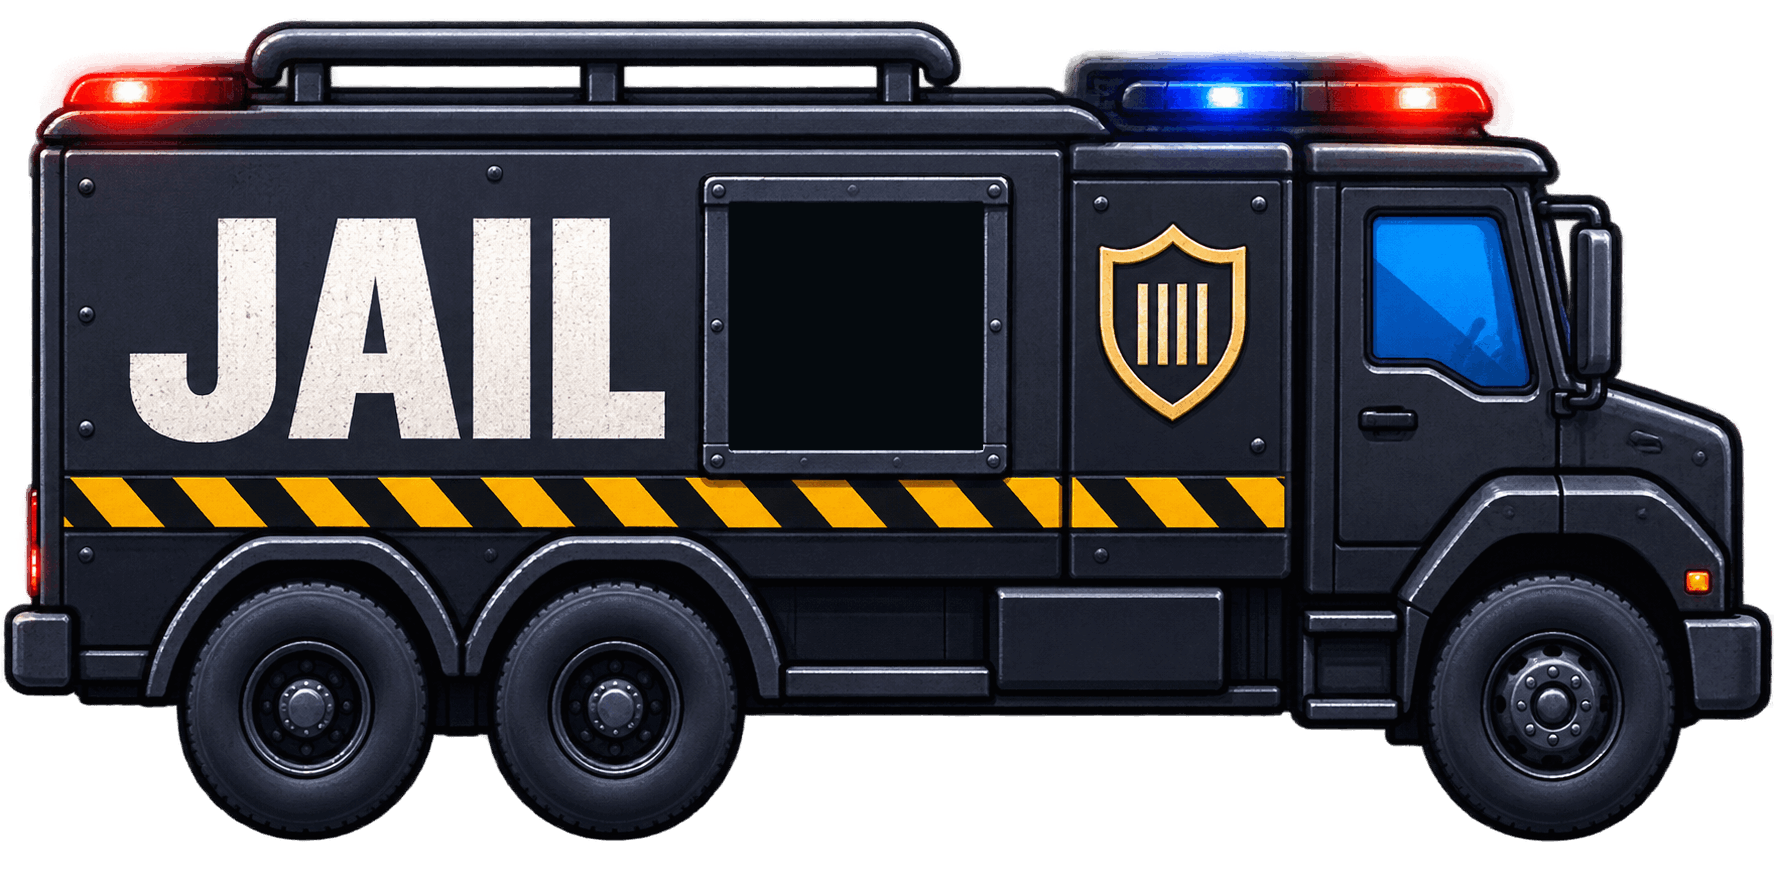
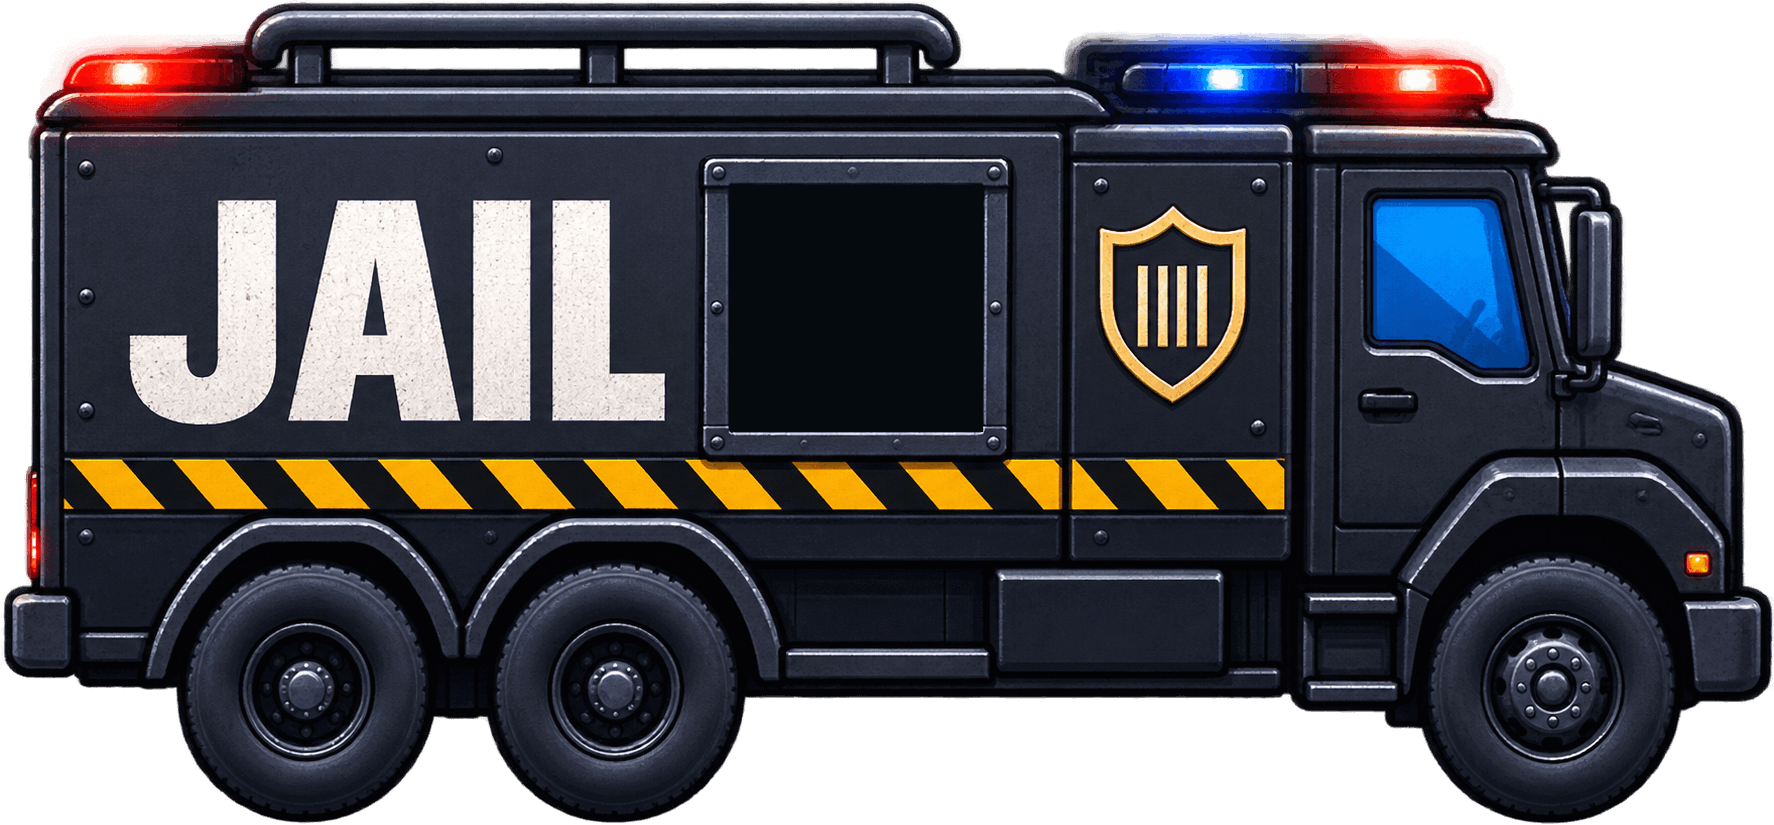
Add ban message positioning modes
Add Below Van, Above Van, and Manual ban message positioning modes.

- Default to Below Van
- Keep Manual slider positioning
- Pass positioning mode through Streamer.bot
- Align automatic positioning with van and skid-mark geometry
- Remove obsolete truck backup image

diff --git a/assets/ban-van-size.js b/assets/ban-van-size.js
@@ -1,9 +1,15 @@
 (() => {
   const root = document.documentElement;
+  const banStage = document.getElementById("ban-stage");
   const originalApplySettings = window.applyOverlaySettings;
   const DESIGN_HEIGHT = 1080;
+  const DESIGN_VAN_HEIGHT = 320;
+  const TRAIL_HEIGHT = 92;
+  const SKID_BOTTOM_OFFSET = 44;
+  const MESSAGE_GAP = 0;
   const vanScales = { "Large": 1, "Medium": 0.85, "Small": 0.70, "Extra Small": 0.60 };
   const messageScales = { "Large": 1, "Medium": 0.85, "Small": 0.70, "Extra Small": 0.60 };
+  const messagePositionModes = new Set(["Below Van", "Above Van", "Manual"]);
 
   function applyVanSize(value) {
     const size = Object.prototype.hasOwnProperty.call(vanScales, value) ? value : "Large";
@@ -19,32 +25,80 @@
     updateVerticalPositions();
   }
 
+  function applyMessagePositionMode(value) {
+    const mode = messagePositionModes.has(value) ? value : "Below Van";
+    root.dataset.banMessagePositionMode = mode;
+    updateVerticalPositions();
+  }
+
   function clampPercent(value) {
     return Number.isFinite(value) ? Math.max(0, Math.min(100, value)) : 50;
   }
 
-  function updateVerticalPositions() {
-    const vanPosition = clampPercent(Number(root.dataset.banVanPosition ?? 50));
-    const messagePosition = clampPercent(Number(root.dataset.banMessagePosition ?? 50));
-    const vanScale = Number(root.style.getPropertyValue("--ban-van-scale")) || 1;
-    const messageScale = Number(root.style.getPropertyValue("--ban-message-scale")) || 1;
+  function getMessageScale() {
+    return Number(root.style.getPropertyValue("--ban-message-scale")) || 1;
+  }
 
-    // The ban animation lives in a fixed 1920x1080 design stage. The
-    // responsive stage scales that complete canvas to the browser viewport.
-    const vanHeight = 320 * vanScale;
+  function positionMessageLayer(scene) {
+    if (!scene?.isConnected) return;
+    const layer = scene.querySelector(".ban-message-layer");
+    if (!layer) return;
+
+    const mode = root.dataset.banMessagePositionMode || "Below Van";
+    const vanPosition = clampPercent(Number(root.dataset.banVanPosition ?? 50));
+    const vanScale = Number(root.style.getPropertyValue("--ban-van-scale")) || 1;
+    const messageScale = getMessageScale();
+    const messageHeight = 32 * messageScale;
+    const vanHeight = DESIGN_VAN_HEIGHT * vanScale;
     const vanTop = (DESIGN_HEIGHT - vanHeight) * (vanPosition / 100);
     const trailTop = vanTop + 279;
-    const messageHeight = 32 * messageScale;
-    const messageTop = (DESIGN_HEIGHT - messageHeight) * (messagePosition / 100);
+
+    let messageTop;
+
+    if (mode === "Above Van") {
+      // The truck is scaled around its bottom edge. With the transparent
+      // padding trimmed from the truck artwork, the scaled image bounds now
+      // represent the visible truck bounds directly.
+      const visualTruckTop = vanTop + DESIGN_VAN_HEIGHT - vanHeight;
+      messageTop = visualTruckTop - messageHeight - MESSAGE_GAP;
+    } else if (mode === "Manual") {
+      messageTop = (DESIGN_HEIGHT - messageHeight) * (clampPercent(Number(root.dataset.banMessagePosition ?? 50)) / 100);
+    } else {
+      // The two skid marks occupy the upper 44px of the 92px trail container:
+      // first mark at 22px, second at 40px. Align the TOP of the message
+      // directly with the BOTTOM of the lower skid mark (44px).
+      messageTop = trailTop + SKID_BOTTOM_OFFSET + MESSAGE_GAP;
+    }
+
+    const top = Math.round(messageTop);
+    layer.style.setProperty("--ban-message-top", `${top}px`);
+    layer.style.top = `${top}px`;
+  }
+
+  function updateVerticalPositions() {
+    const vanPosition = clampPercent(Number(root.dataset.banVanPosition ?? 50));
+    const vanScale = Number(root.style.getPropertyValue("--ban-van-scale")) || 1;
+    const vanHeight = DESIGN_VAN_HEIGHT * vanScale;
+    const vanTop = (DESIGN_HEIGHT - vanHeight) * (vanPosition / 100);
+    const trailTop = vanTop + 279;
 
     root.style.setProperty("--ban-van-top", `${Math.round(vanTop)}px`);
     root.style.setProperty("--ban-trail-top", `${Math.round(trailTop)}px`);
-    root.style.setProperty("--ban-message-top", `${Math.round(messageTop)}px`);
+
+    if (banStage) {
+      banStage.querySelectorAll(".ban-scene").forEach(positionMessageLayer);
+      requestAnimationFrame(() => banStage.querySelectorAll(".ban-scene").forEach(positionMessageLayer));
+      requestAnimationFrame(() => requestAnimationFrame(() => banStage.querySelectorAll(".ban-scene").forEach(positionMessageLayer)));
+    }
   }
 
   function applySettings(d) {
     if (!d || typeof d !== "object") return;
     if (Object.prototype.hasOwnProperty.call(d, "banWidgetBanVanSize")) applyVanSize(String(d.banWidgetBanVanSize));
+    if (Object.prototype.hasOwnProperty.call(d, "banWidgetBanVerticalPosition")) {
+      root.dataset.banVanPosition = clampPercent(Number(d.banWidgetBanVerticalPosition));
+      updateVerticalPositions();
+    }
     if (Object.prototype.hasOwnProperty.call(d, "banWidgetBanVanVerticalPosition")) {
       root.dataset.banVanPosition = clampPercent(Number(d.banWidgetBanVanVerticalPosition));
       updateVerticalPositions();
@@ -53,6 +107,9 @@
       root.dataset.banMessageVisibility = String(d.banWidgetBanMessageVisibility).toLowerCase() === "hidden" ? "Hidden" : "Visible";
     }
     if (Object.prototype.hasOwnProperty.call(d, "banWidgetBanMessageSize")) applyMessageSize(String(d.banWidgetBanMessageSize));
+    if (Object.prototype.hasOwnProperty.call(d, "banWidgetBanMessagePositionMode")) {
+      applyMessagePositionMode(String(d.banWidgetBanMessagePositionMode));
+    }
     if (Object.prototype.hasOwnProperty.call(d, "banWidgetBanMessageVerticalPosition")) {
       root.dataset.banMessagePosition = clampPercent(Number(d.banWidgetBanMessageVerticalPosition));
       updateVerticalPositions();
@@ -63,10 +120,37 @@
     window.applyOverlaySettings = (d) => { originalApplySettings(d); applySettings(d); };
   }
 
+  if (banStage) {
+    const observer = new MutationObserver((records) => {
+      for (const record of records) {
+        for (const node of record.addedNodes) {
+          if (!(node instanceof HTMLElement)) continue;
+          if (node.classList.contains("ban-scene")) {
+            requestAnimationFrame(() => positionMessageLayer(node));
+            requestAnimationFrame(() => requestAnimationFrame(() => positionMessageLayer(node)));
+          }
+          node.querySelectorAll?.(".ban-scene").forEach(scene => {
+            requestAnimationFrame(() => positionMessageLayer(scene));
+            requestAnimationFrame(() => requestAnimationFrame(() => positionMessageLayer(scene)));
+          });
+          if (node.classList.contains("ban-message-layer")) {
+            const scene = node.closest(".ban-scene");
+            if (scene) requestAnimationFrame(() => positionMessageLayer(scene));
+          }
+        }
+      }
+    });
+    observer.observe(banStage, { childList: true, subtree: true });
+    window.addEventListener("resize", () => {
+      requestAnimationFrame(() => banStage.querySelectorAll(".ban-scene").forEach(positionMessageLayer));
+    }, { passive: true });
+  }
+
   applyVanSize("Large");
   applyMessageSize("Large");
   root.dataset.banVanPosition = "50";
   root.dataset.banMessagePosition = "50";
+  root.dataset.banMessagePositionMode = "Below Van";
   root.dataset.banMessageVisibility = "Visible";
   updateVerticalPositions();
 })();

diff --git a/assets/ban-positioning.css b/assets/ban-positioning.css
@@ -36,7 +36,22 @@ html[data-ban-van-size="Extra Small"] .ban-scene .truck { --ban-van-scale: 0.60;
 .ban-scene .ban-trail .skid.two { top: 40px; bottom: auto; }
 .ban-scene .ban-trail.revealing .skid { animation: banSkidRevealWithTruck 4.3s linear forwards; }
 
-.ban-scene .ban-reason { left: -8px; right: auto; top: -19px; width: max-content !important; max-width: none; min-height: 30px; padding-left: 0; padding-right: 0; justify-content: flex-start; white-space: nowrap; overflow: visible; z-index: 3; opacity: 0; }
+/* The message is positioned in the same fixed design space as the truck/trail. */
+.ban-scene .ban-reason {
+  left: -8px;
+  right: auto;
+  top: var(--ban-message-top, -19px);
+  width: max-content !important;
+  max-width: none;
+  min-height: 30px;
+  padding-left: 0;
+  padding-right: 0;
+  justify-content: flex-start;
+  white-space: nowrap;
+  overflow: visible;
+  z-index: 3;
+  opacity: 0;
+}
 .ban-scene .ban-reason span { display: inline-block; white-space: nowrap; overflow: visible; max-width: none; }
 .ban-scene .ban-trail.revealing .ban-reason { animation: banReasonAppear .18s ease-out forwards; }
 

diff --git a/streamerbot/RTS-BanWidget.cs b/streamerbot/RTS-BanWidget.cs
@@ -16,6 +16,7 @@ public class CPHInline
     private const string BanVanVerticalPositionKey = "duhbuh.banwidget.banVanVerticalPosition";
     private const string BanMessageVisibilityKey = "duhbuh.banwidget.banMessageVisibility";
     private const string BanMessageSizeKey = "duhbuh.banwidget.banMessageSize";
+    private const string BanMessagePositionModeKey = "duhbuh.banwidget.banMessagePositionMode";
     private const string BanMessageVerticalPositionKey = "duhbuh.banwidget.banMessageVerticalPosition";
 
     public bool PrepareTimeout() => PrepareBanWidget("timeout");
@@ -37,6 +38,7 @@ public class CPHInline
         int banVanVerticalPosition = CPH.GetGlobalVar<int?>(BanVanVerticalPositionKey, true) ?? 50;
         string banMessageVisibility = CPH.GetGlobalVar<string>(BanMessageVisibilityKey, true) ?? "Visible";
         string banMessageSize = CPH.GetGlobalVar<string>(BanMessageSizeKey, true) ?? "Large";
+        string banMessagePositionMode = CPH.GetGlobalVar<string>(BanMessagePositionModeKey, true) ?? "Below Van";
         int banMessageVerticalPosition = CPH.GetGlobalVar<int?>(BanMessageVerticalPositionKey, true) ?? 50;
 
         if (!string.Equals(banMessageAnimationType, "Arrival", StringComparison.OrdinalIgnoreCase)) banMessageAnimationType = "Departure";
@@ -44,6 +46,7 @@ public class CPHInline
         if (!string.Equals(banVanSize, "Medium", StringComparison.OrdinalIgnoreCase) && !string.Equals(banVanSize, "Small", StringComparison.OrdinalIgnoreCase) && !string.Equals(banVanSize, "Extra Small", StringComparison.OrdinalIgnoreCase)) banVanSize = "Large";
         if (!string.Equals(banMessageVisibility, "Hidden", StringComparison.OrdinalIgnoreCase)) banMessageVisibility = "Visible";
         if (!string.Equals(banMessageSize, "Medium", StringComparison.OrdinalIgnoreCase) && !string.Equals(banMessageSize, "Small", StringComparison.OrdinalIgnoreCase) && !string.Equals(banMessageSize, "Extra Small", StringComparison.OrdinalIgnoreCase)) banMessageSize = "Large";
+        if (!string.Equals(banMessagePositionMode, "Above Van", StringComparison.OrdinalIgnoreCase) && !string.Equals(banMessagePositionMode, "Manual", StringComparison.OrdinalIgnoreCase)) banMessagePositionMode = "Below Van";
 
         stackScalePercent = Math.Max(10, Math.Min(100, stackScalePercent));
         maxDocked = Math.Max(1, Math.Min(25, maxDocked));
@@ -68,6 +71,7 @@ public class CPHInline
         CPH.SetArgument("banWidgetBanVanVerticalPosition", banVanVerticalPosition);
         CPH.SetArgument("banWidgetBanMessageVisibility", banMessageVisibility);
         CPH.SetArgument("banWidgetBanMessageSize", banMessageSize);
+        CPH.SetArgument("banWidgetBanMessagePositionMode", banMessagePositionMode);
         CPH.SetArgument("banWidgetBanMessageVerticalPosition", banMessageVerticalPosition);
 
         string sourceName = CPH.GetSource().ToString();

diff --git a/streamerbot/SetupSettings.cs b/streamerbot/SetupSettings.cs
@@ -18,6 +18,7 @@ public class CPHInline
     private const string BanVanVerticalPositionKey = "duhbuh.banwidget.banVanVerticalPosition";
     private const string BanMessageVisibilityKey = "duhbuh.banwidget.banMessageVisibility";
     private const string BanMessageSizeKey = "duhbuh.banwidget.banMessageSize";
+    private const string BanMessagePositionModeKey = "duhbuh.banwidget.banMessagePositionMode";
     private const string BanMessageVerticalPositionKey = "duhbuh.banwidget.banMessageVerticalPosition";
 
     public bool Execute()
@@ -39,7 +40,8 @@ public class CPHInline
         ui.AddSlider("Ban Van Vertical Position", "Positions the ban van and skid marks vertically in the viewport: 0 is the top and 100 is the bottom.", "Ban Widget", BanVanVerticalPositionKey, 0, 100, 50);
         ui.AddRadioGroup("Ban Message Visibility", "Show or hide the BANNED message and scrolling reason without affecting the van or skid animation.", "Ban Widget", BanMessageVisibilityKey, new[] { "Visible", "Hidden" }, "Visible");
         ui.AddRadioGroup("Ban Message Size", "Controls the size of BANNED and the scrolling reason independently of the van size.", "Ban Widget", BanMessageSizeKey, new[] { "Large", "Medium", "Small", "Extra Small" }, "Large");
-        ui.AddSlider("Ban Message Vertical Position", "Positions the ban message vertically in the viewport: 0 is the top and 100 is the bottom.", "Ban Widget", BanMessageVerticalPositionKey, 0, 100, 50);
+        ui.AddRadioGroup("Ban Message Position", "Controls how the ban message is positioned. Below Van follows the skid-mark area, Above Van follows the scaled van, and Manual enables the independent vertical position slider.", "Ban Widget", BanMessagePositionModeKey, new[] { "Below Van", "Above Van", "Manual" }, "Below Van");
+        ui.AddSlider("Ban Message Vertical Position", "Manual message position: 0 is the top and 100 is the bottom. Used when Ban Message Position is set to Manual.", "Ban Widget", BanMessageVerticalPositionKey, 0, 100, 50);
         ui.AddRadioGroup("Ban Message Scroll Speed", "Speed the Ban message scrolls.", "Ban Widget", BanMessageScrollSpeedKey, new[] { "Slow", "Medium", "Fast" }, "Medium");
 
         ui.AddTitle("Timeout Settings", "Timeout Widget");
